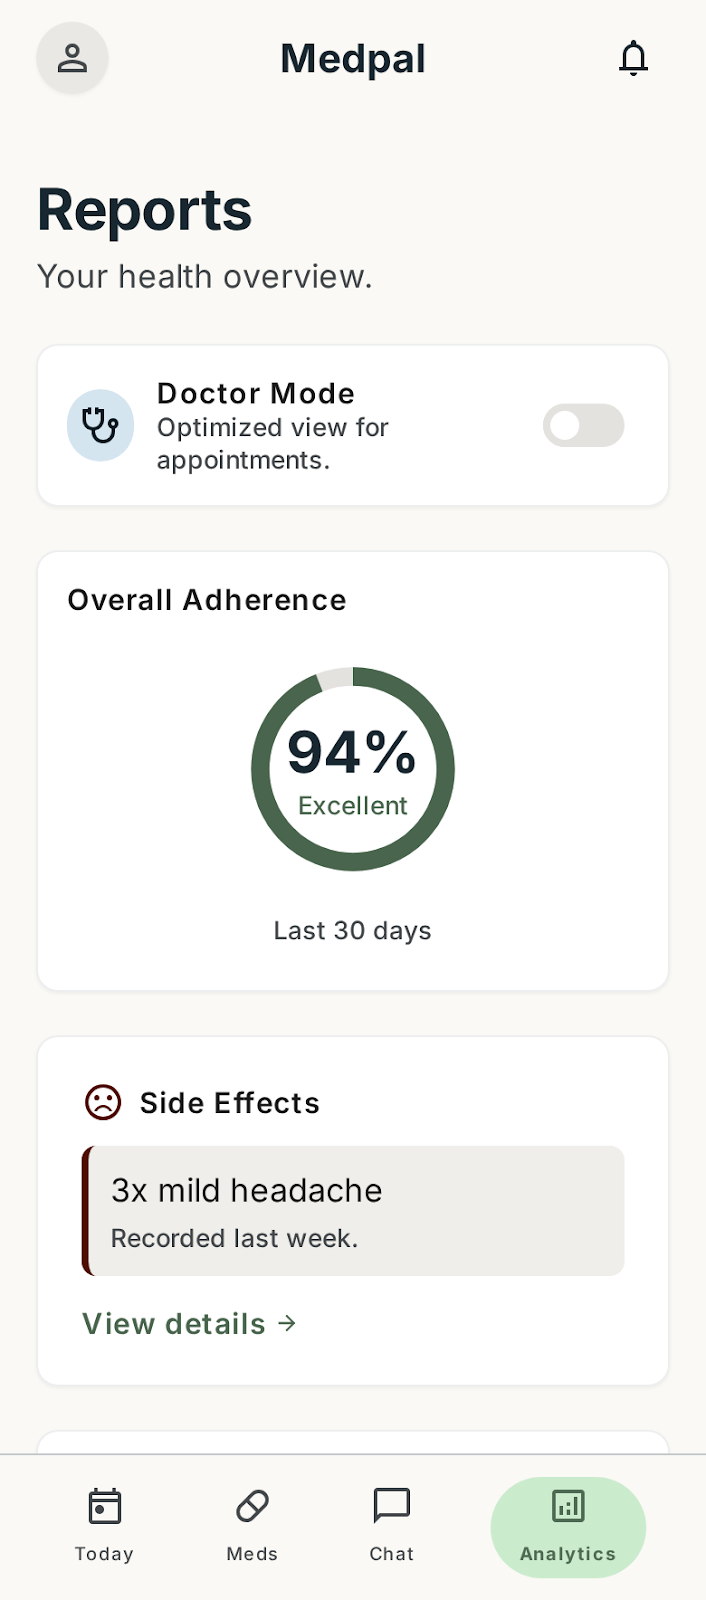
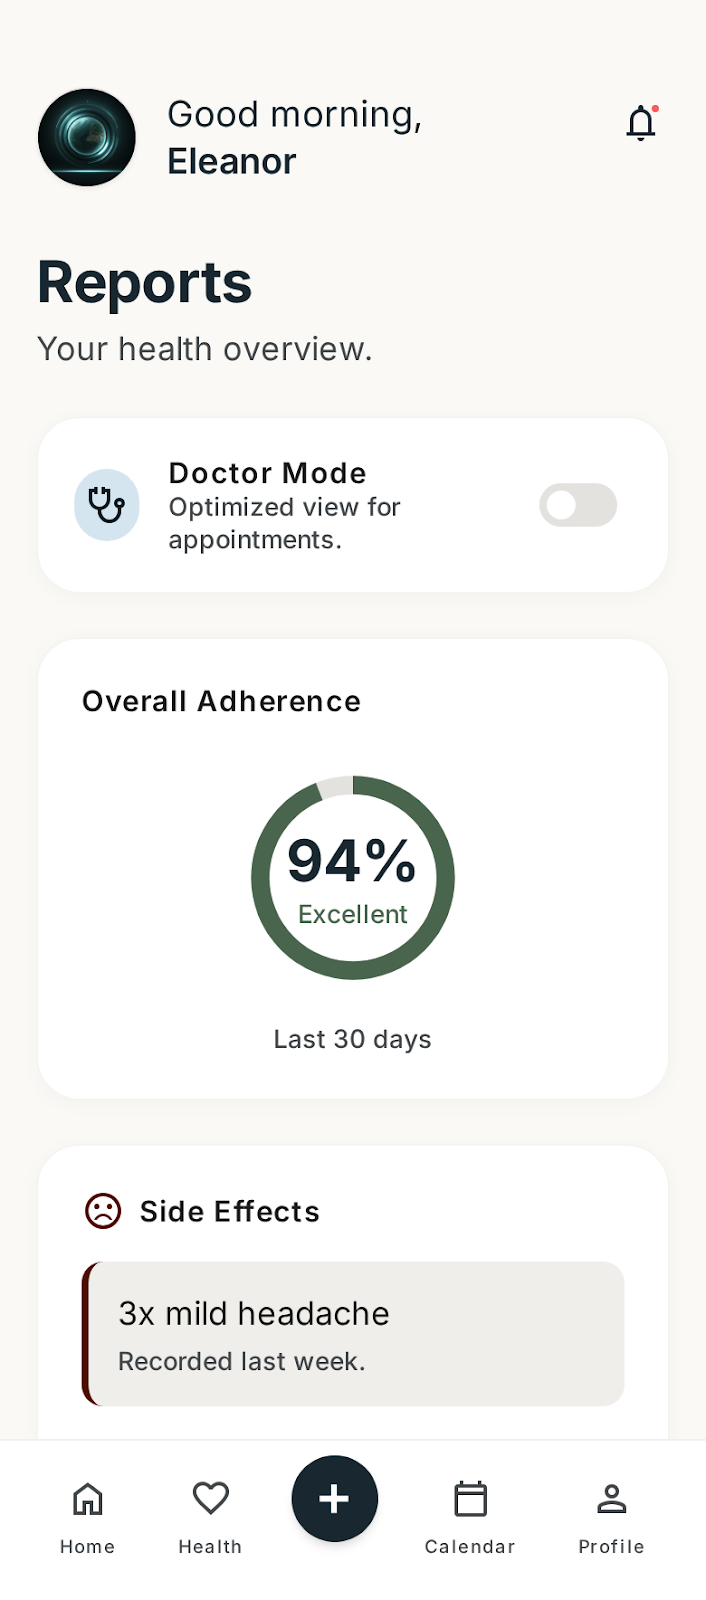
Update app screenshots to latest UI (hoje_medpal)
- Today: new layout with checkboxes, Appointments and Notes cards
- Meds: updated interface with coloured medication icons
- Analytics: updated interface matching new nav style
- Update screen tab descriptions to match new UI

diff --git a/landing/src/App.jsx b/landing/src/App.jsx
@@ -3,10 +3,10 @@ import './App.css'
 import QRModal from './QRModal.jsx'
 
 const SCREENS = [
-  { id: 'today',     label: 'Today',     src: '/screens/today.png',     title: 'Daily Dose Tracker', desc: "See every medication scheduled for today. Mark doses taken, snooze a reminder, or check what's next — in seconds, one-handed." },
-  { id: 'meds',      label: 'My Meds',   src: '/screens/meds.png',      title: 'Your Digital Medicine Cabinet', desc: 'Every medication in one place — daily use, as-needed, and past treatments. Scan a new prescription or add one manually at any time.' },
+  { id: 'today',     label: 'Today',     src: '/screens/today.png',     title: 'Your Day at a Glance', desc: 'All your medications for the day — morning to night — with one tap to mark each dose taken. Plus upcoming appointments and notes, all in one place.' },
+  { id: 'meds',      label: 'My Meds',   src: '/screens/meds.png',      title: 'Your Digital Medicine Cabinet', desc: 'Daily use, as-needed, and completed treatments — organised with icons and status. Tap Scan Prescription to add a new one in seconds.' },
   { id: 'chat',      label: 'Assistant', src: '/screens/chat.png',       title: 'MedPal Assistant', desc: "Feeling off? Tell MedPal. It cross-checks your symptoms against your current medications and can alert your doctor or care team if needed." },
-  { id: 'analytics', label: 'Reports',   src: '/screens/analytics.png', title: 'Reports & Adherence', desc: 'Track your adherence over 30 days. Log mood and side effects daily. Flip on Doctor Mode to share a clean summary at your next appointment.' },
+  { id: 'analytics', label: 'Reports',   src: '/screens/analytics.png', title: 'Reports & Adherence', desc: 'Track your overall adherence — 94% Excellent over 30 days. Log side effects. Flip on Doctor Mode to share a clean summary at your next appointment.' },
 ]
 
 const FEATURE_GROUPS = [
